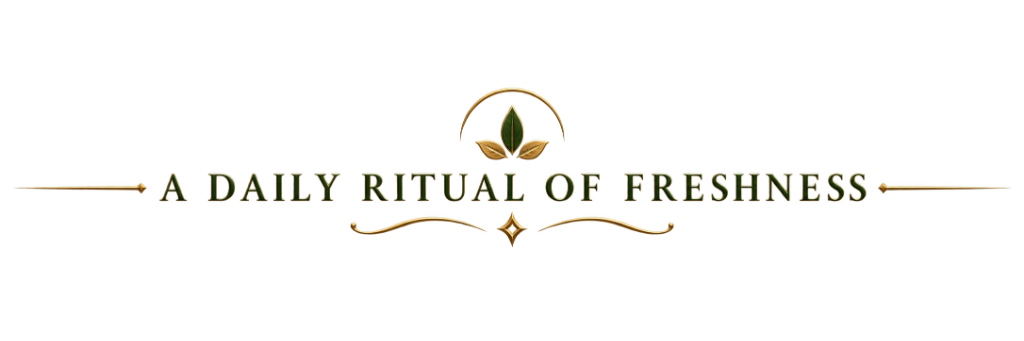
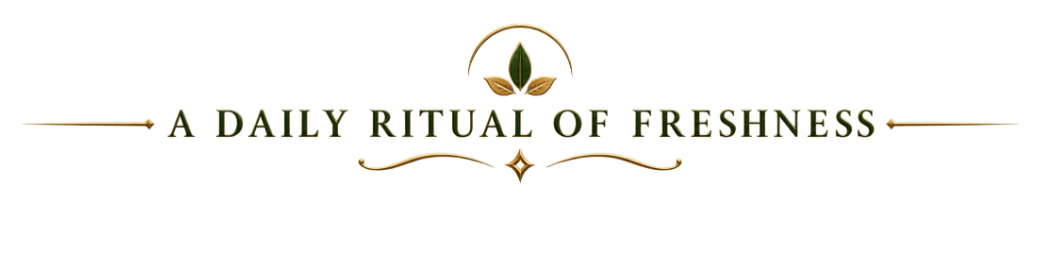
feat: tailor transition section length to 150px and vertically balance ritual of freshness emblem

Changed region(s): [[0.0, 0.0876, 1.0, 0.7007], [0.625, 0.6715, 0.6562, 0.7007]]

diff --git a/src/components/HarvestCategoryGrid.tsx b/src/components/HarvestCategoryGrid.tsx
@@ -965,16 +965,16 @@ export default function HarvestCategoryGrid() {
           onViewAllProducts={scrollToCatalog}
         />
 
-        {/* Transitional Organic Spacing Gap between Harvest Hero & Storybook */}
-        <div className="w-full py-8 md:py-12 bg-[#f4ebde] bg-[url('/images/parchment-texture-bg.png')] bg-repeat border-t border-[#e5d8c3]/80 flex items-center justify-center px-4">
-          <div className="relative w-full max-w-xl md:max-w-2xl flex items-center justify-center select-none pointer-events-none">
+        {/* Transitional Spacing Section with Exact Screenshot Length (~150px) */}
+        <div className="w-full py-3 md:py-4 bg-[#f4ebde] bg-[url('/images/parchment-texture-bg.png')] bg-repeat border-t border-[#e5d8c3]/80 flex items-center justify-center px-4">
+          <div className="relative w-full max-w-[440px] flex items-center justify-center select-none pointer-events-none">
             <Image
               src="/images/daily-ritual-freshness-emblem.png"
               alt="A Daily Ritual of Freshness"
-              width={680}
-              height={226}
+              width={440}
+              height={116}
               priority
-              className="w-full max-w-[480px] md:max-w-[580px] h-auto object-contain drop-shadow-sm"
+              className="w-full h-auto object-contain drop-shadow-sm"
             />
           </div>
         </div>
